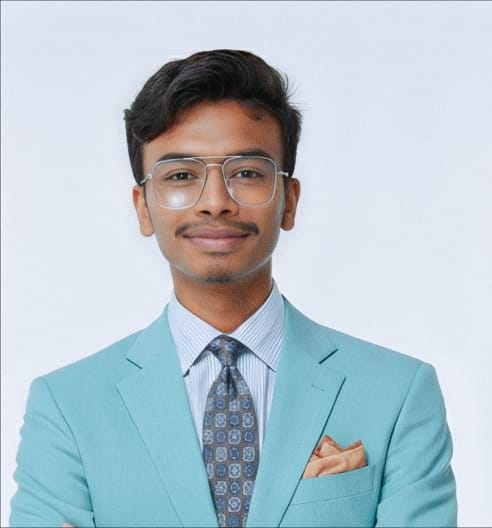
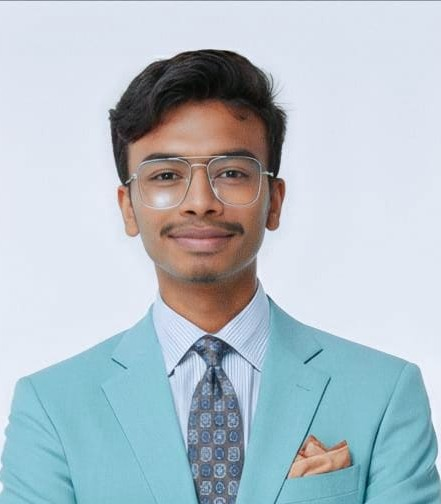
feat: update profile photo, redesign hero section with new social pill styles, and add email link

diff --git a/index.html b/index.html
@@ -137,6 +137,26 @@
             box-shadow: 0 0 0 1px #2563eb;
         }
 
+        /* ─── Social Pills ──────────────────────────── */
+        .social-pill {
+            display: inline-flex;
+            align-items: center;
+            justify-content: center;
+            height: 2.5rem;
+            width: 2.5rem;
+            border-radius: 50%;
+            color: #52525b;
+            /* zinc-600 */
+            background-color: transparent;
+            transition: all 0.3s ease;
+        }
+
+        .social-pill:hover {
+            color: #2563eb;
+            /* blue-600 */
+            background-color: #f4f4f5;
+            transform: translateY(-2px);
+        }
     </style>
 </head>
 
@@ -223,42 +243,51 @@
     ════════════════════════════════════════════════ -->
     <header id="about" class="section-container pt-32 pb-16">
 
-        <div class="flex flex-col md:flex-row items-start md:items-center gap-8 mb-8">
+        <div class="mb-8">
             <img src="assets/profile-pic.jpeg" alt="Rudra Prasad Bhuyan"
-                class="w-32 h-32 rounded-lg object-cover border border-zinc-200" />
-            <div>
-                <h1 class="text-4xl md:text-5xl font-bold tracking-tight mb-2">Rudra Prasad Bhuyan</h1>
-                <p class="text-xl text-zinc-600 font-medium">Aspiring Data Scientist | ML Engineer</p>
+                class="w-24 h-24 rounded-full object-cover border border-zinc-200 mb-6 shadow-sm" />
+
+            <h1 class="text-3xl md:text-4xl font-bold tracking-tight text-zinc-900 mb-4">Rudra Prasad Bhuyan</h1>
+
+            <p class="text-lg text-zinc-600 mb-8">
+                AI & Data Scientist who loves Finance & Business.
+            </p>
+
+            <div class="max-w-xl text-zinc-600 leading-relaxed mb-8 space-y-4">
+                <p>
+                    Machine Learning Engineer with hands-on experience in data analysis, machine learning, and
+                    end-to-end
+                    project execution.
+                </p>
+                <p>
+                    Focused on practical, system thinking solutions — not just models. I solve real problems using data.
+                </p>
+            </div>
+
+            <div class="flex items-center flex-wrap gap-3">
+                <a href="https://drive.google.com/drive/folders/1GtkJX0WEAIot308foQCXqSThmjiJYBjk?usp=drive_link"
+                    target="_blank" class="social-pill" title="Resume">
+                    <i class="fa-solid fa-file-lines text-xl"></i>
+                </a>
+
+                <a href="https://linkedin.com/in/rudra-prasad-bhuyan-44a388235/" target="_blank" class="social-pill"
+                    title="LinkedIn">
+                    <i class="fa-brands fa-linkedin text-xl"></i>
+                </a>
+
+                <a href="https://github.com/Rudra-G-23" target="_blank" class="social-pill" title="GitHub">
+                    <i class="fa-brands fa-github text-xl"></i>
+                </a>
+
+                <a href="mailto:rudra.p.bhuyan@gmail.com" class="social-pill" title="Email">
+                    <i class="fa-solid fa-envelope text-xl"></i>
+                </a>
+
+                <span
+                    class="ml-2 px-3 py-1 bg-white text-zinc-600 text-xs font-mono rounded-full border border-zinc-200 shadow-sm">v2.0.0</span>
             </div>
         </div>
 
-        <div class="max-w-xl text-zinc-600 leading-relaxed mb-8">
-            <p class="mb-4">
-                Machine Learning Engineer with hands-on experience in data analysis, machine learning, and end-to-end
-                project execution.
-            </p>
-            <p>Focused on practical, system thinking solutions — not just models. I solve real problems using data.</p>
-        </div>
-
-        <div class="flex flex-wrap gap-4">
-
-            <a href="https://drive.google.com/drive/folders/1GtkJX0WEAIot308foQCXqSThmjiJYBjk?usp=drive_link"
-                target="_blank"
-                class="inline-flex items-center gap-2 bg-zinc-900 text-white px-5 py-2.5 rounded-md font-bold transition-all duration-300 shadow-md hover:bg-blue-600 hover:shadow-lg hover:shadow-blue-500/20">
-                <i class="fa-solid fa-file-lines"></i> Resume
-            </a>
-
-            <a href="https://github.com/Rudra-G-23" target="_blank"
-                class="inline-flex items-center gap-2 border border-zinc-200 px-5 py-2.5 rounded-md font-medium transition-all duration-300 hover:bg-zinc-50 hover:text-blue-600 hover:shadow-lg hover:shadow-blue-500/20">
-                <i class="fa-brands fa-github"></i> GitHub
-            </a>
-
-            <a href="https://linkedin.com/in/rudra-prasad-bhuyan-44a388235/" target="_blank"
-                class="inline-flex items-center gap-2 border border-zinc-200 px-5 py-2.5 rounded-md font-medium transition-all duration-300 hover:bg-zinc-50 hover:text-blue-600 hover:shadow-lg hover:shadow-blue-500/20">
-                <i class="fa-brands fa-linkedin"></i> LinkedIn
-            </a>
-
-        </div>
     </header>
 
 
@@ -1018,8 +1047,7 @@
     <!-- ═══════════════════════════════════════════════
          CHATBOT
     ════════════════════════════════════════════════ -->
-    <div id="chatbot-container"
-        class="fixed bottom-6 right-6 z-[100] font-sans">
+    <div id="chatbot-container" class="fixed bottom-6 right-6 z-[100] font-sans">
 
         <!-- Attraction Bubble -->
         <div id="chatbot-bubble"
